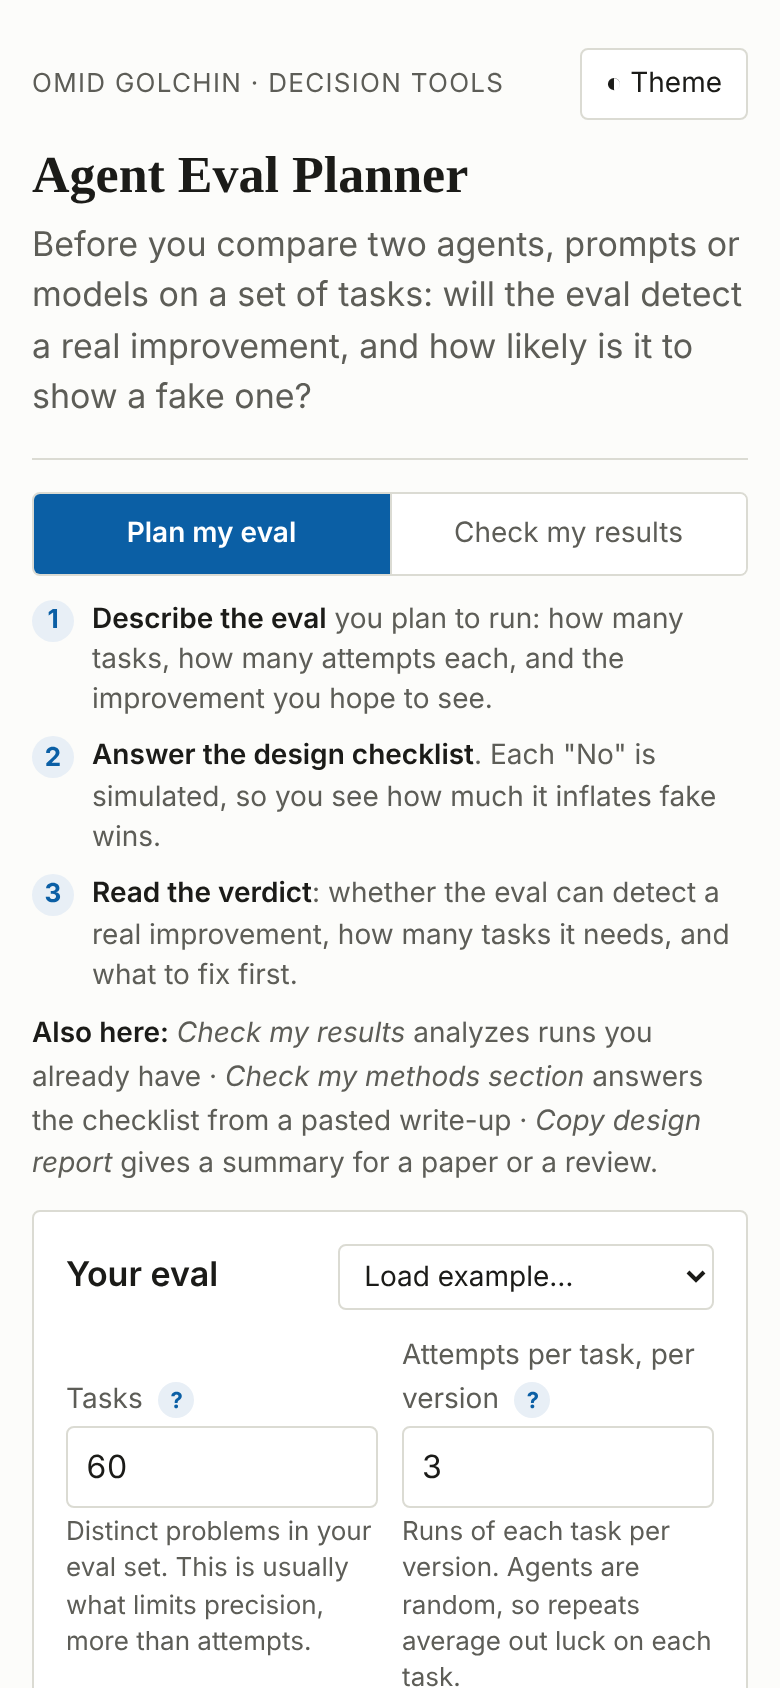
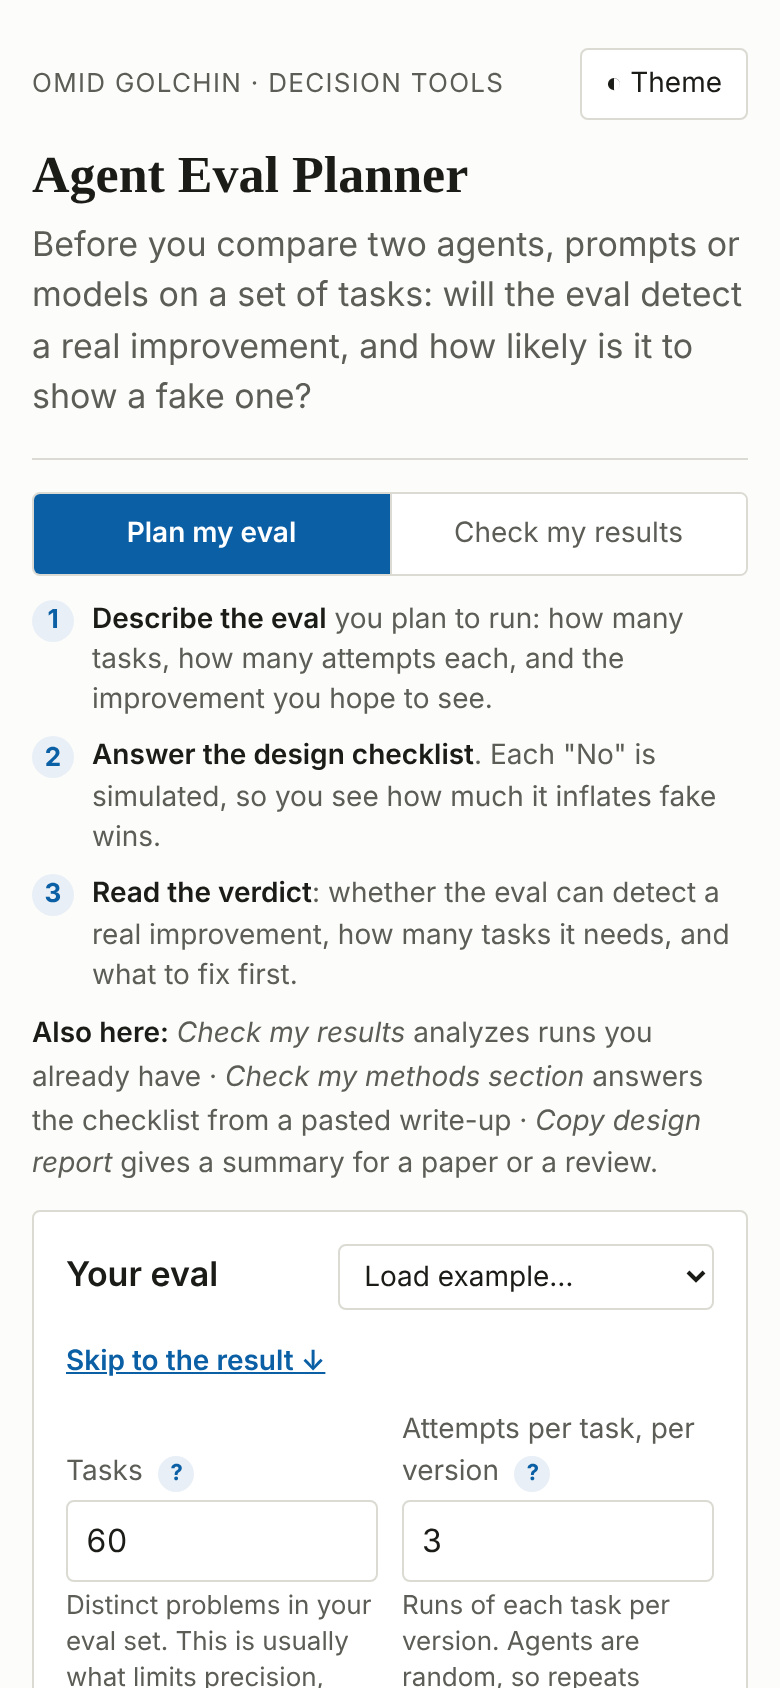
Checklist starts unanswered; log-odds shown as success-rate points; calibration for task spread; warn on graded scores
Kit: every ? has a hover title, a Skip to the result link on narrow screens, and an example banner for prefilled demo content. README, hero GIF and screenshots regenerated from the page.

Changed region(s): [[0.0615, 0.8009, 0.8923, 1.0], [0.0923, 0.8009, 0.4, 0.8318], [0.8923, 0.8626, 0.9231, 0.8934]]

diff --git a/docs/app.js b/docs/app.js
@@ -32,7 +32,7 @@
       fix: "Name one primary metric before running, and report every metric you looked at." }
   ];
   var DEFAULTS = { mode: "plan", tasks: 60, attempts: 3, rate: 50, gain: 10, spread: "1", paired: "1", gainCheck: 5 };
-  HAZ.forEach(function (h) { DEFAULTS["h_" + h.key] = h.numeric ? 1 : 0; if (h.param) DEFAULTS["v_" + h.key] = h.param.def; });
+  HAZ.forEach(function (h) { DEFAULTS["h_" + h.key] = h.numeric ? 1 : ""; if (h.param) DEFAULTS["v_" + h.key] = h.param.def; });
   var EXAMPLES = [
     { label: "Small agent benchmark (60 tasks)", v: { tasks: 60, attempts: 3, rate: 50, gain: 10, spread: "1", paired: "1" }, h: {} },
     { label: "Judged chat eval with retries for the new version", v: { tasks: 120, attempts: 3, rate: 41, gain: 5, spread: "1", paired: "1" }, h: { compute: 1, judge: 1, failures: 1 } },
@@ -48,7 +48,7 @@
     $("qlist").innerHTML = HAZ.map(function (h) {
       var ctl = "";
       if (h.numeric) ctl = '<input id="h_' + h.key + '" type="number" min="1" max="20" step="1" style="width:5em" aria-label="' + h.name + '">';
-      else ctl = '<select id="h_' + h.key + '" aria-label="' + h.name + '"><option value="0">' + (h.yesLabel || "Yes") + '</option><option value="1">No</option></select>';
+      else ctl = '<select id="h_' + h.key + '" aria-label="' + h.name + '"><option value="">Not checked yet</option><option value="0">' + (h.yesLabel || "Yes") + '</option><option value="1">No</option></select>';
       var slider = h.param ? '<div class="ctl" id="row_' + h.key + '" hidden><label for="v_' + h.key + '">' + h.param.label + '</label><input type="range" id="v_' + h.key + '" min="' + h.param.min + '" max="' + h.param.max + '" step="' + h.param.step + '"><output id="o_' + h.key + '"></output></div>' : "";
       return '<div class="q" id="q_' + h.key + '"><div class="q-row"><label class="q-text" for="h_' + h.key + '">' + h.q + ' <button type="button" data-tip="hz_' + h.key + '"></button></label>' + ctl + "</div>" + slider + "</div>";
     }).join("");
@@ -60,10 +60,20 @@
     HAZ.forEach(function (h) {
       var unsafe = h.numeric ? Number($("h_" + h.key).value) > 1 : $("h_" + h.key).value === "1";
       $("q_" + h.key).classList.toggle("unsafe", unsafe);
-      if (h.param) { $("row_" + h.key).hidden = !unsafe; $("o_" + h.key).textContent = h.param.show(Number($("v_" + h.key).value)); }
+      $("q_" + h.key).classList.toggle("unchecked", !h.numeric && $("h_" + h.key).value === "");
+      if (h.param) {
+        $("row_" + h.key).hidden = !unsafe;
+        var pv = Number($("v_" + h.key).value), txt = h.param.show(pv);
+        if (/log-odds/.test(h.param.label)) {
+          var r0 = Math.min(0.99, Math.max(0.01, Number($("rate").value) / 100 || 0.5)), l0 = Math.log(r0 / (1 - r0)), r1 = 1 / (1 + Math.exp(-(l0 + pv)));
+          txt += " (about +" + Math.round(100 * (r1 - r0)) + " points at your " + Math.round(100 * r0) + "% rate)";
+        }
+        $("o_" + h.key).textContent = txt;
+      }
     });
   }
   syncChecklist();
+  $("rate").addEventListener("input", syncChecklist);
   EXAMPLES.forEach(function (ex, i) { var o = document.createElement("option"); o.value = i; o.textContent = ex.label; $("example").appendChild(o); });
   $("example").addEventListener("change", function () {
     if (this.value === "") return;
@@ -128,7 +138,7 @@
     need("attempts", v.attempts >= 1 && v.attempts <= 20 && Number.isInteger(v.attempts), "Whole number, 1 to 20.");
     need("rate", v.rate > 0 && v.rate < 100, "Between 1 and 99.");
     need("gain", v.gain > 0 && v.rate + v.gain < 100, "Above 0, and rate + gain under 100.");
-    v.haz = {}; v.unsafe = [];
+    v.haz = {}; v.unsafe = []; v.unchecked = HAZ.filter(function (h) { return !h.numeric && $("h_" + h.key).value === ""; });
     HAZ.forEach(function (h) {
       var raw = $("h_" + h.key).value, unsafe = h.numeric ? Number(raw) > 1 : raw === "1";
       if (unsafe) v.unsafe.push(h);
@@ -179,9 +189,11 @@
     if (biased && weak) { title = "Fix the design, then add tasks"; cls = "bad"; }
     else if (biased) { title = "Fix the design first"; cls = "bad"; }
     else if (weak) { title = "Too few tasks: use about " + F.int(P.n80); cls = "warn"; }
+    else if (v.unchecked.length) { title = "Answer the checklist before you run"; cls = "warn"; }
     else { title = "Ready to run"; cls = "good"; }
     if (biased) body = "If B were no better than A, this design would still show a significant difference " + pct(P.fake) + " of the time, instead of about 5%. " + (flagged.length ? "Fix " + (flagged.length === 1 ? "the flagged item" : "the " + flagged.length + " flagged items") + " below. " : "") + powerSent;
     else body = powerSent + " Fake wins stay near " + pct(P.fake) + (P.fake <= 0.065 ? ", as they should." : ".") + (flagged.length ? " Your answers still cost something: see the flagged items." : "");
+    if (v.unchecked.length) body += " " + v.unchecked.length + " of " + HAZ.filter(function (h) { return !h.numeric; }).length + " design questions are still \"Not checked yet\"; the numbers assume each one is fine.";
     $("vTitle").textContent = title; $("vBody").textContent = body; $("verdict").className = "panel verdict v-" + cls;
     P.title = title; P.body = body;
     $("kpis").innerHTML = [[pct(P.power), "chance to detect +" + v.gain + " pts", "power"], [pct(P.fake), "fake wins (aim: ~5%)", "fake"], [F.int(P.n80), "tasks for 80%"], [F.int(v.tasks * v.attempts * 2), "runs in total"]].map(function (x) { return '<div class="kpi"><span class="k-val">' + x[0] + '</span><span class="k-lbl">' + x[1] + (x[2] ? ' <button type="button" data-tip="' + x[2] + '"></button>' : "") + "</span></div>"; }).join("");
@@ -191,7 +203,8 @@
       else if (x.power < P.power - 0.05) c.push(["warn", "COSTLY", x.h.name, "No extra fake wins here, but the chance to detect falls from " + pct(P.power) + " to " + pct(x.power) + ". " + x.h.fix]);
       else c.push(["info", "MINOR", x.h.name, "Little effect at these settings (fake wins " + pct(x.fake) + "). Still worth fixing: " + x.h.fix.charAt(0).toLowerCase() + x.h.fix.slice(1)]);
     });
-    if (!P.impacts.length) c.push(["ok", "OK", "Design checklist", "No risky answers: the simulated false-alarm rate is " + pct(P.fake) + "."]);
+    if (v.unchecked.length) c.push(["warn", "UNANSWERED", "Design checklist", "Not checked yet: " + v.unchecked.map(function (h) { return h.name.toLowerCase(); }).join(", ") + ". The simulation treats these as safe, so a fake win from any of them is not counted. Answer them to make the verdict yours."]);
+    if (!P.impacts.length && !v.unchecked.length) c.push(["ok", "OK", "Design checklist", "No risky answers: the simulated false-alarm rate is " + pct(P.fake) + "."]);
     c.push([v.paired ? "ok" : "warn", v.paired ? "PAIRED" : "UNPAIRED", "Same tasks for both", v.paired ? "Tasks, paired: each task's difference between versions is one data point, which cancels task difficulty." : "Separate task sets: task difficulty adds noise to the comparison. Running both versions on the same tasks would need fewer tasks."]);
     var runs1 = P.n80 * v.attempts, runs2 = P.n80x2 * v.attempts * 2;
     c.push(runs2 > runs1 * 1.15
@@ -255,17 +268,17 @@
       idx.attempt = find(["attempt", "run", "seed", "trial", "repeat"]); idx.success = find(["success", "pass", "passed", "correct", "solved", "score", "result", "outcome"]);
       if (idx.success < 0) idx.success = first.length - 1;
     }
-    var rows = [], bad = 0;
+    var rows = [], bad = 0, graded = 0;
     for (var i = start; i < lines.length; i++) {
       var c = split(lines[i]); if (c.length < 3) { bad++; continue; }
       var sraw = String(c[idx.success] || "").toLowerCase(), s;
       if (/^(1|true|yes|pass|passed|correct|success|solved)$/.test(sraw)) s = 1;
       else if (/^(0|false|no|fail|failed|incorrect|error|wrong)$/.test(sraw)) s = 0;
-      else if (isFinite(Number(sraw)) && sraw !== "") s = Number(sraw) >= 0.5 ? 1 : 0;
+      else if (isFinite(Number(sraw)) && sraw !== "") { s = Number(sraw) >= 0.5 ? 1 : 0; graded++; }
       else { bad++; continue; }
       rows.push({ task: c[idx.task], version: c[idx.version], attempt: idx.attempt >= 0 ? c[idx.attempt] : "", success: s });
     }
-    return { rows: rows, bad: bad };
+    return { rows: rows, bad: bad, graded: graded };
   }
   var runCheckSoon = debounce(runCheck, 300);
   $("csv").addEventListener("input", runCheckSoon);
@@ -314,6 +327,7 @@
     var tw = r.hi - r.lo, bw = r.bootHi - r.bootLo;
     c.push(Math.abs(tw - bw) > 0.25 * tw ? ["warn", "CHECK", "Interval methods", "The bootstrap interval (" + pts(r.bootLo) + " to " + pts(r.bootHi) + ") differs from the t-interval: the per-task differences are far from normal. Trust the bootstrap."] : ["ok", "AGREE", "Interval methods", "The task bootstrap (" + pts(r.bootLo) + " to " + pts(r.bootHi) + ") agrees with the t-interval."]);
     if (r.bad) c.push(["warn", "SKIPPED", "Unreadable rows", r.bad + " row" + (r.bad === 1 ? "" : "s") + " could not be read and were skipped."]);
+    if (parsed.graded) c.unshift(["warn", "CUT AT 0.5", "Graded scores", parsed.graded + " results were scores between 0 and 1 rather than pass/fail. They were cut at 0.5 (0.7 counts as a success, 0.4 as a failure), so the detail in graded scores is lost. This tool analyzes pass/fail results."]);
     $("cChecks").innerHTML = c.map(function (x) { return '<div class="check is-' + x[0] + '"><span class="badge">' + x[1] + '</span><div><span class="c-name">' + x[2] + '.</span> <span class="c-text">' + x[3] + "</span></div></div>"; }).join("");
     r.checks = c;
     drawCheck();
@@ -354,7 +368,7 @@
     tasks: { t: "Tasks", d: "The separate problems in the eval set. Precision is limited mostly by how many tasks you have, because tasks differ in difficulty and each task is one independent piece of evidence." },
     attempts: { t: "Attempts per task", d: "Agents are random: the same task can pass once and fail the next time. Repeating attempts averages out that luck, but it cannot make up for too few tasks." },
     gain: { t: "Improvement to detect", d: "The smallest real gain, in percentage points, that you need the eval to catch. Halving it needs roughly four times the tasks." },
-    spread: { t: "Task difficulty spread", d: "How much tasks differ in difficulty. The simulation draws each task's difficulty from a normal distribution on the log-odds scale; this sets its spread (0.5, 1 or 2)." },
+    spread: { t: "Task difficulty spread", d: "How much tasks differ in difficulty. The simulation draws each task's difficulty from a normal distribution on the log-odds scale with spread 0.5, 1 or 2. At a 50% overall rate, the middle 80% of tasks pass roughly 35–65% of the time (similar), 22–78% (mixed) or 7–93% (very mixed). A pilot that runs each task a few times shows which you have." },
     paired: { t: "Paired design", d: "Running both versions on the same tasks lets you compare them task by task. The task's difficulty affects both versions and cancels out, which can cut the tasks needed by half or more." },
     baseline: { t: "Baseline", d: "The version you compare against, usually the current production prompt or model." },
     checklist: { t: "Design checklist", d: "Eight common ways agent evals produce fake wins. Answer for your setup: each risky answer is added to the simulation, and the verdict reports the false-alarm rate it causes." },

diff --git a/docs/index.html b/docs/index.html
@@ -14,6 +14,7 @@
   .q.unsafe { border-color: var(--series-2); }
   .q-row { display: flex; justify-content: space-between; align-items: center; gap: 10px; }
   .q-text { font-size: var(--fs-small); }
+  .q.unchecked select { border-color: var(--series-2); border-style: dashed; }
   .q select { flex: 0 0 auto; font-size: var(--fs-small); }
   .q .ctl { margin-top: 6px; }
   .q .ctl label { color: var(--muted); }
@@ -55,15 +56,15 @@
           <div class="field"><label for="attempts">Attempts per task, per version <button type="button" data-tip="attempts"></button></label><input id="attempts" type="number" min="1" max="20" step="1" inputmode="numeric"><div class="hint">Runs of each task per version. Agents are random, so repeats average out luck on each task.</div></div>
           <div class="field"><label for="rate">Current success rate</label><div class="input-wrap"><input id="rate" type="number" min="1" max="99" step="any"><span class="unit">%</span></div><div class="hint">Share of tasks the current version solves. If unsure, use 50%, the hardest case.</div></div>
           <div class="field"><label for="gain">Improvement you hope to detect <button type="button" data-tip="gain"></button></label><div class="input-wrap"><input id="gain" type="number" min="0.5" max="50" step="any"><span class="unit">pts</span></div><div class="hint">In percentage points: 50% → 60% is +10. The smallest change you would act on.</div></div>
-          <div class="field"><label for="spread">How different are the tasks? <button type="button" data-tip="spread"></button></label><select id="spread"><option value="0.5">Similar difficulty</option><option value="1">Mixed</option><option value="2">Very mixed (some trivial, some impossible)</option></select><div class="hint">If some tasks are trivial and others impossible, task-to-task differences add noise.</div></div>
+          <div class="field"><label for="spread">How different are the tasks? <button type="button" data-tip="spread"></button></label><select id="spread"><option value="0.5">Similar difficulty</option><option value="1">Mixed</option><option value="2">Very mixed (some trivial, some impossible)</option></select><div class="hint">From a pilot: if most tasks pass about as often as the overall rate, pick Similar; if many are always solved or never solved, Very mixed. Not sure? Mixed is the middle; try Very mixed to see the cost.</div></div>
           <div class="field"><label for="paired">Both versions on the same tasks? <button type="button" data-tip="paired"></button></label><select id="paired"><option value="1">Yes</option><option value="0">No, separate task sets</option></select><div class="hint">Running both versions on the same tasks cancels out task difficulty and needs far fewer tasks.</div></div>
         </div>
         <h2 style="margin:18px 0 6px">Design checklist <button type="button" data-tip="checklist"></button></h2>
-        <p class="footnote" style="margin:0 0 6px">Answer for your setup. Each risky answer is simulated, so the verdict shows what it costs.</p>
+        <p class="footnote" style="margin:0 0 6px">Answer each question for your setup; they start as "Not checked yet" so nothing is assumed for you. Each "No" is simulated, so the verdict shows what it costs.</p>
         <div class="qlist" id="qlist"></div>
         <div class="actions" style="margin-top:12px">
           <button type="button" id="assistToggle">✦ Check my methods section</button>
-          <span class="footnote">Paste your eval's write-up; an AI model answers the checklist from it, quoting each sentence, and lists what the write-up never says.</span>
+          <span class="footnote">Paste your eval's write-up; an AI model answers the checklist from it, quoting each sentence. Needs your own Anthropic or OpenAI-compatible API key, or copy the prompt into any AI assistant.</span>
         </div>
         <div id="assistMount"></div>
       </form>
@@ -116,7 +117,7 @@
           <button type="button" id="loadExample">Load example results</button></div>
         <div class="field"><label for="csv">One row per attempt: task, version, attempt, success (1 or 0)</label>
           <textarea class="csv" id="csv" spellcheck="false" placeholder="task,version,attempt,success&#10;t01,A,1,1&#10;t01,A,2,0&#10;t01,B,1,1&#10;..."></textarea>
-          <div class="hint">Paste from a spreadsheet or CSV. A header row is optional; extra columns are ignored. "pass/fail" and "true/false" also work.</div></div>
+          <div class="hint">Paste from a spreadsheet or CSV. A header row is optional; extra columns are ignored. "pass/fail" and "true/false" also work. Pass/fail only: a graded score between 0 and 1 is cut at 0.5 (0.7 counts as a success), so its detail is lost.</div></div>
         <div class="fields" style="margin-top:10px">
           <div class="field"><label for="baseline">Which version is the baseline? <button type="button" data-tip="baseline"></button></label><select id="baseline"></select><div class="hint">The version you are trying to beat. Differences are reported as other version minus baseline.</div></div>
           <div class="field"><label for="upload">Or upload a CSV</label><input id="upload" type="file" accept=".csv,text/csv,text/plain"><div class="hint">Same format as the box above: task, version, attempt, success.</div></div>

diff --git a/docs/tool-common.js b/docs/tool-common.js
@@ -9,6 +9,7 @@
  *   Tool.explain(glossary)         "?" buttons that open a plain-language explanation
  *   Tool.siblings(currentRepo)     the "More tools" footer line, from one shared list
  *   Tool.tabs(tablist)             arrow-key support for a mode switch
+ *   Tool.exampleBanner(form, text) marks prefilled example content where it sits
  *
  * No dependencies. Works from file:// and on GitHub Pages.
  */
@@ -433,6 +434,7 @@
       if (btn.tagName === "BUTTON") btn.type = "button";
       if (!btn.textContent.trim()) btn.textContent = "?";
       btn.setAttribute("aria-label", "What is " + g.t.replace(/[.?:]$/, "") + "?");
+      btn.title = "Explain: " + g.t.replace(/[.?:]$/, "");
       btn.setAttribute("aria-expanded", "false");
       // keep the "?" on the same line as the last word before it
       var prev = btn.previousSibling;
@@ -531,16 +533,45 @@
     sync(); new MutationObserver(sync).observe(list, { subtree: true, attributes: true, attributeFilter: ["aria-selected"] });
   }
 
+
+  /* ---------------- example banner, jump to result ---------------- */
+  // Marks prefilled example content where it sits, so a first-time visitor
+  // does not read the demo verdict as their own. text = null hides it.
+  function exampleBanner(form, text) {
+    if (!form) return;
+    var b = form.querySelector(":scope > .ex-banner");
+    if (!text) { if (b) b.hidden = true; return; }
+    if (!b) {
+      b = document.createElement("p"); b.className = "ex-banner"; b.setAttribute("role", "status");
+      var head = form.querySelector(":scope > .panel-head");
+      if (head && head.nextSibling) form.insertBefore(b, head.nextSibling); else form.insertBefore(b, form.firstChild);
+    }
+    b.hidden = false;
+    b.innerHTML = '<span class="ex-tag">Example</span> ' + text;
+  }
+  // On narrow screens the inputs come first; give a way straight to the result.
+  function jumpLinks() {
+    document.querySelectorAll(".work").forEach(function (w, i) {
+      var form = w.querySelector("form.panel"), v = w.querySelector(".verdict");
+      if (!form || !v || form.querySelector(".jump")) return;
+      if (!v.id) v.id = "result-" + i;
+      var a = document.createElement("a"); a.className = "jump"; a.href = "#" + v.id; a.textContent = "Skip to the result ↓";
+      var head = form.querySelector(":scope > .panel-head");
+      if (head && head.nextSibling) form.insertBefore(a, head.nextSibling); else form.insertBefore(a, form.firstChild);
+    });
+  }
+
   if (typeof document !== "undefined") {
     document.addEventListener("DOMContentLoaded", function () {
       var m = location.pathname.match(/\/([^\/]+)\/(?:docs\/)?(?:index\.html)?$/);
       siblings(m ? m[1] : "");
       tabs();
       alignFields();
+      jumpLinks();
     });
   }
 
-  var api = { explain: explain, alignFields: alignFields, closeTip: closeTip, siblings: siblings, tabs: tabs, TOOLS: TOOLS, readParams: readParams, writeParams: writeParams, copy: copy, fmt: fmt, lineChart: lineChart, niceTicks: niceTicks, assist: assist, _buildPrompt: buildPrompt, _parseReply: parseReply, _quoteFound: quoteFound, _coerce: coerce };
+  var api = { explain: explain, alignFields: alignFields, exampleBanner: exampleBanner, jumpLinks: jumpLinks, closeTip: closeTip, siblings: siblings, tabs: tabs, TOOLS: TOOLS, readParams: readParams, writeParams: writeParams, copy: copy, fmt: fmt, lineChart: lineChart, niceTicks: niceTicks, assist: assist, _buildPrompt: buildPrompt, _parseReply: parseReply, _quoteFound: quoteFound, _coerce: coerce };
   if (typeof module !== "undefined" && module.exports) module.exports = api;
   if (typeof window !== "undefined") window.Tool = api;
 })();

diff --git a/docs/tool.css b/docs/tool.css
@@ -138,3 +138,7 @@ select.example { font-size: var(--fs-small); }
 .fields.sg-on > :not(.sg) { margin-bottom: var(--sp-3); }
 .fields.sg-on > .group-label { margin: var(--sp-2) 0 6px; }
 .field-after:empty { display: none; }
+.ex-banner { margin: 0 0 var(--sp-3); padding: 6px 10px; border-radius: var(--radius); background: var(--accent-soft); color: var(--fg); font-size: var(--fs-small); line-height: 1.45; }
+.ex-banner .ex-tag { display: inline-block; font-size: var(--fs-caption); font-weight: 700; letter-spacing: .04em; text-transform: uppercase; color: var(--accent); margin-right: 4px; }
+.jump { display: none; }
+@media (max-width: 820px) { .jump { display: inline-block; margin: 0 0 var(--sp-3); font-size: var(--fs-small); font-weight: 600; } }
